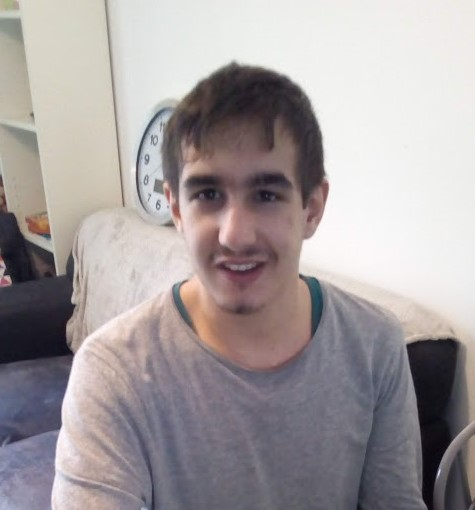
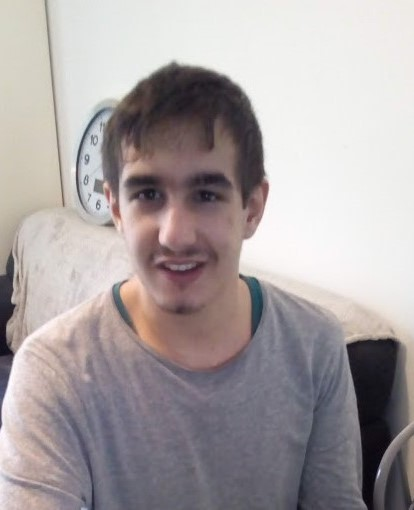
update

diff --git a/CSS.css b/CSS.css
@@ -1,5 +1,5 @@
 img {
-    width: 200px;
+    width: 190px;
     height: 200px;
     border-radius: 100px;
     display: block;
